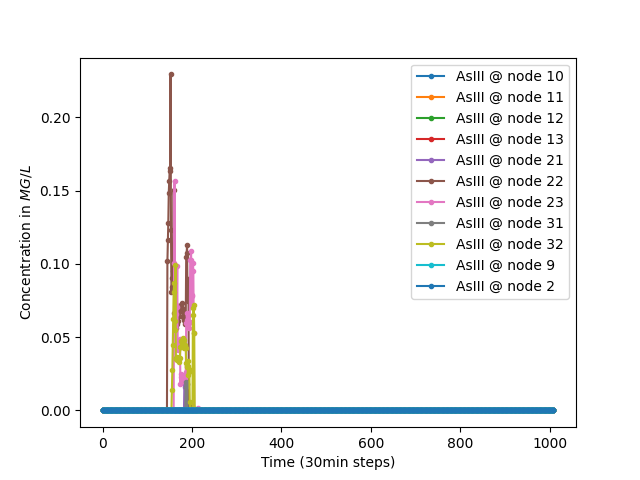
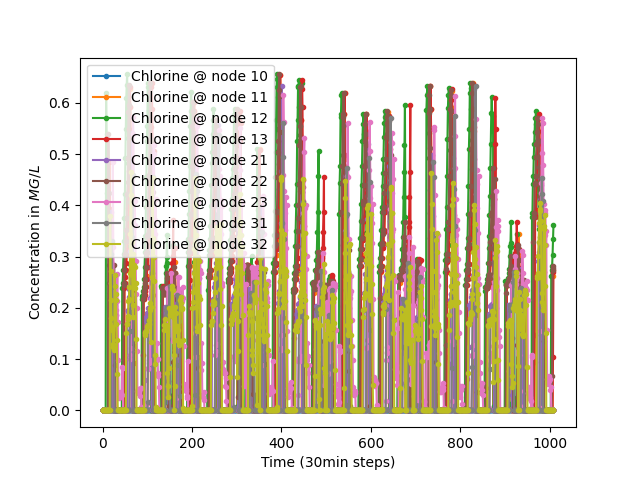
Changed code

diff --git a/arsenic_contamination.py b/arsenic_contamination.py
@@ -3,6 +3,8 @@ Example of adding a simple arsenic contamination event to a scenario.
 """
 import os
 import numpy as np
+import matplotlib
+matplotlib.use("Agg")
 from epyt_flow.data.benchmarks import load_leakdb_scenarios
 from epyt_flow.simulation import ScenarioSimulator, EpanetConstants, ScenarioConfig
 from epyt_flow.simulation.events import SpeciesInjectionEvent
@@ -40,11 +42,10 @@ if __name__ == "__main__":
 
         # Run simulation
         scada_data = sim.run_simulation()
+        os.makedirs("./plots", exist_ok=True)
 
         # Inspect simulation results -- i.e. sensor readings over time
         scada_data.plot_bulk_species_node_concentration({"Chlorine": cl_sensor_locations})
-        scada_data.plot_bulk_species_node_concentration({"AsIII": all_nodes})
-        
-        os.makedirs("./plots", exist_ok=True)
         plt.savefig("./plots/chlorine_concentration.png")
+        scada_data.plot_bulk_species_node_concentration({"AsIII": all_nodes})
         plt.savefig("./plots/arsenic_concentration.png")
